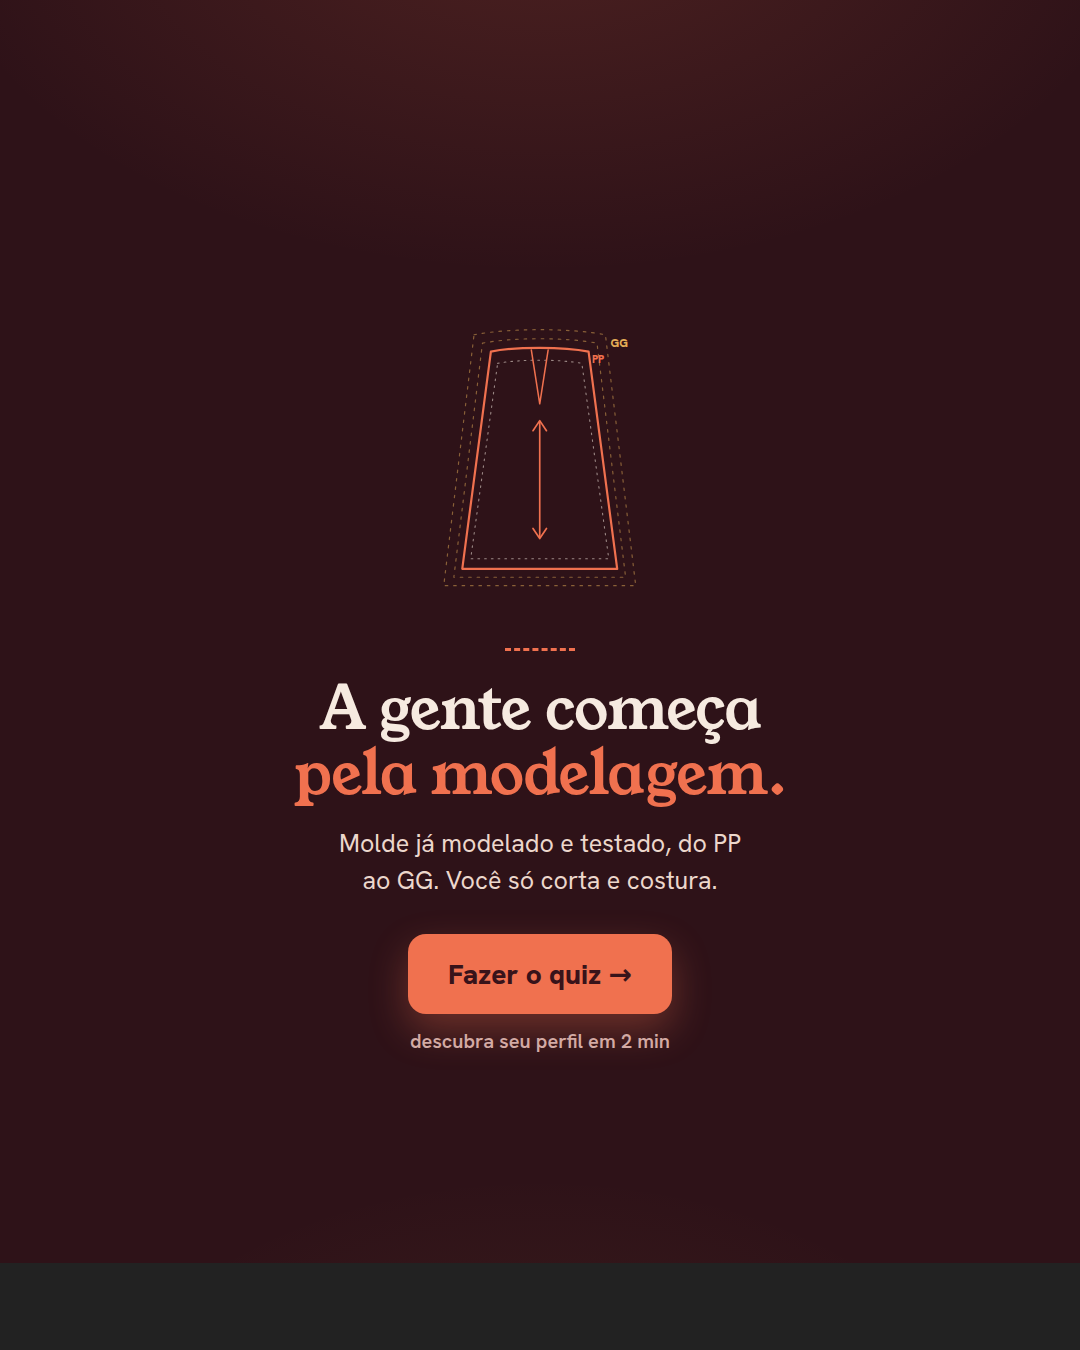
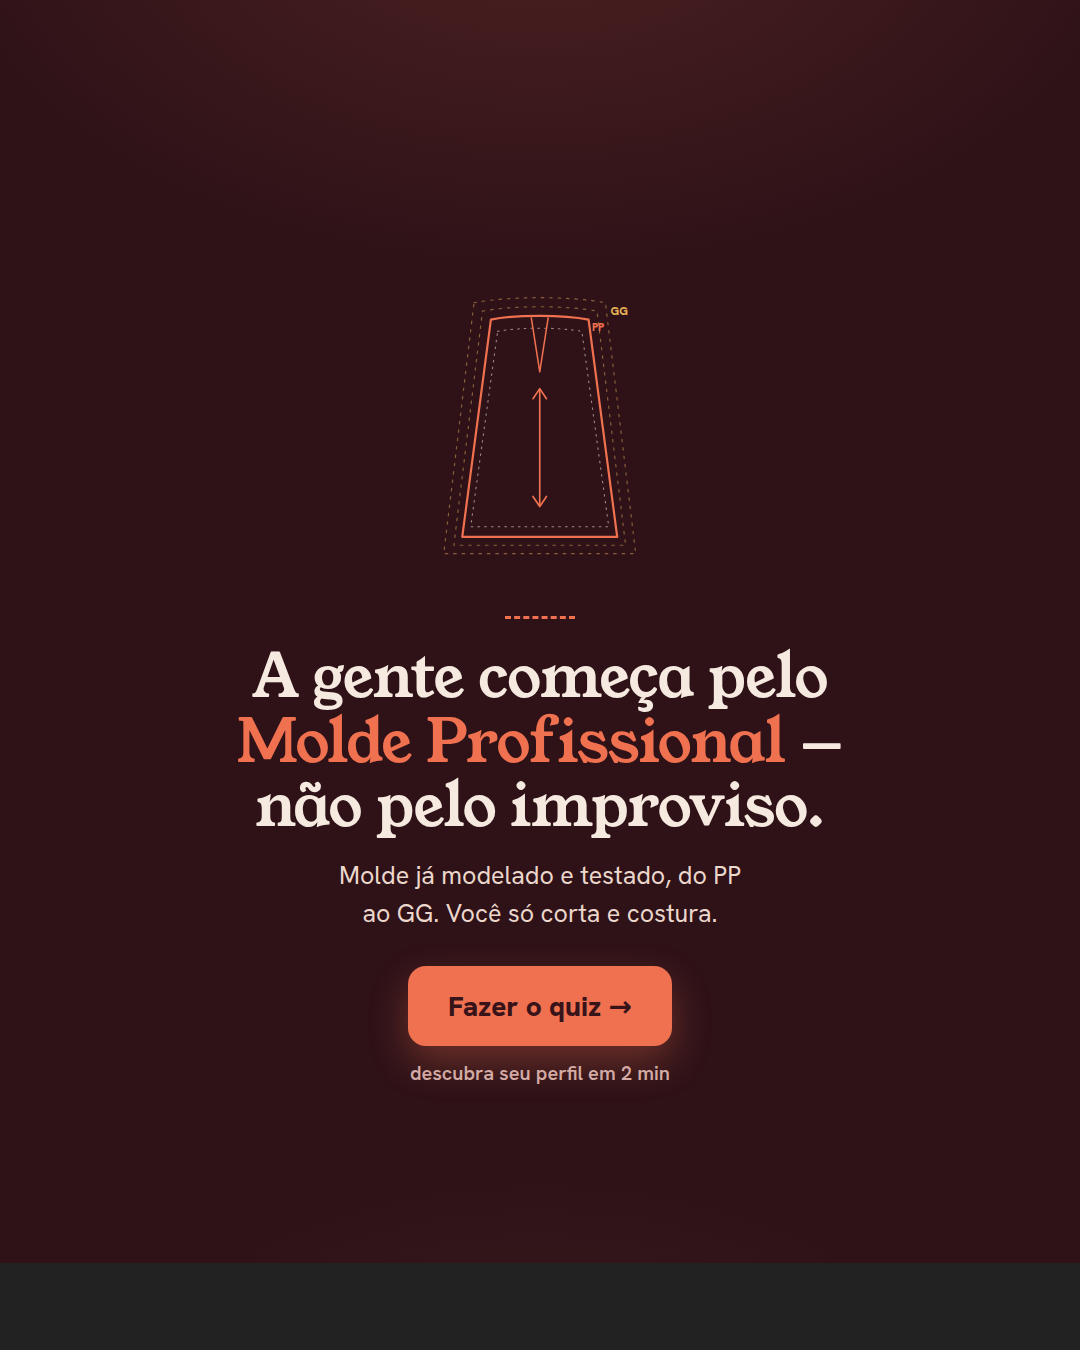
copy(criativos): novas headlines do molde e manequim
- molde (feed+stories): "A gente começa pelo Molde Profissional — não pelo improviso"
- manequim (feed+stories): "Molde com caimento profissional" (sub cita do PP ao GG)

Claude-Session: https://claude.ai/code/session_016H96bb8eAFfmjxwbFd5sg9

Changed region(s): [[0.2139, 0.4667, 0.7639, 0.8089], [0.4278, 0.2178, 0.5806, 0.4356]]

diff --git a/criativos/sem-foto/manequim-feed.html b/criativos/sem-foto/manequim-feed.html
@@ -21,5 +21,5 @@ h1 b{color:var(--coral);font-weight:400}
 <path d="M120 52 C138 52 148 66 154 82 C164 106 172 118 170 140 C168 160 152 170 148 186 C156 206 176 218 176 238 C176 252 150 258 120 258 C90 258 64 252 64 238 C64 218 84 206 92 186 C88 170 72 160 70 140 C68 118 76 106 86 82 C92 66 102 52 120 52 Z" stroke="#f0714f" stroke-width="2.6"/>
 <path d="M106 60 C112 70 128 70 134 60" stroke="#f0714f" stroke-width="2"/>
 <line x1="120" y1="74" x2="120" y2="254" stroke="#f6eae0" stroke-width="1.2" stroke-dasharray="2 7" opacity=".5"/>
-<ellipse cx="120" cy="184" rx="56" ry="13" stroke="#e3ad57" stroke-width="2.4" stroke-dasharray="6 5"/></svg></div><div class="seam"></div><h1>Caimento que cai <b>certo.</b> Do PP ao GG.</h1><p class="sub">Cada molde já vem com as correções do corpo feminino real. Sem ajuste no escuro.</p><span class="cta">Descobrir meu perfil →</span><div class="micro">leva 2 min · resultado na hora</div>
+<ellipse cx="120" cy="184" rx="56" ry="13" stroke="#e3ad57" stroke-width="2.4" stroke-dasharray="6 5"/></svg></div><div class="seam"></div><h1>Molde com <b>caimento profissional.</b></h1><p class="sub">Cada molde já vem com as correções do corpo feminino, do PP ao GG. Sem ajuste no escuro.</p><span class="cta">Descobrir meu perfil →</span><div class="micro">leva 2 min · resultado na hora</div>
 </div></body></html>

diff --git a/criativos/sem-foto/manequim-stories.html b/criativos/sem-foto/manequim-stories.html
@@ -21,5 +21,5 @@ h1 b{color:var(--coral);font-weight:400}
 <path d="M120 52 C138 52 148 66 154 82 C164 106 172 118 170 140 C168 160 152 170 148 186 C156 206 176 218 176 238 C176 252 150 258 120 258 C90 258 64 252 64 238 C64 218 84 206 92 186 C88 170 72 160 70 140 C68 118 76 106 86 82 C92 66 102 52 120 52 Z" stroke="#f0714f" stroke-width="2.6"/>
 <path d="M106 60 C112 70 128 70 134 60" stroke="#f0714f" stroke-width="2"/>
 <line x1="120" y1="74" x2="120" y2="254" stroke="#f6eae0" stroke-width="1.2" stroke-dasharray="2 7" opacity=".5"/>
-<ellipse cx="120" cy="184" rx="56" ry="13" stroke="#e3ad57" stroke-width="2.4" stroke-dasharray="6 5"/></svg></div><div class="seam"></div><h1>Caimento que cai <b>certo.</b> Do PP ao GG.</h1><p class="sub">Cada molde já vem com as correções do corpo feminino real. Sem ajuste no escuro.</p><span class="cta">Descobrir meu perfil →</span><div class="micro">leva 2 min · resultado na hora</div>
+<ellipse cx="120" cy="184" rx="56" ry="13" stroke="#e3ad57" stroke-width="2.4" stroke-dasharray="6 5"/></svg></div><div class="seam"></div><h1>Molde com <b>caimento profissional.</b></h1><p class="sub">Cada molde já vem com as correções do corpo feminino, do PP ao GG. Sem ajuste no escuro.</p><span class="cta">Descobrir meu perfil →</span><div class="micro">leva 2 min · resultado na hora</div>
 </div></body></html>

diff --git a/criativos/sem-foto/molde-feed.html b/criativos/sem-foto/molde-feed.html
@@ -21,5 +21,5 @@ h1 b{color:var(--coral);font-weight:400}
 <path d="M150 64 L160 128 L170 64" stroke="#f0714f" stroke-width="1.8"/>
 <g stroke="#f0714f" stroke-width="2"><line x1="160" y1="150" x2="160" y2="286"/><path d="M152 160 L160 148 L168 160"/><path d="M152 276 L160 288 L168 276"/></g>
 <text x="244" y="60" font-family="Hanken Grotesk,sans-serif" font-size="14" font-weight="800" fill="#e3ad57">GG</text>
-<text x="222" y="80" font-family="Hanken Grotesk,sans-serif" font-size="13" font-weight="800" fill="#f0714f">PP</text></svg></div><div class="seam"></div><h1>A gente começa <b>pela modelagem.</b></h1><p class="sub">Molde já modelado e testado, do PP ao GG. Você só corta e costura.</p><span class="cta">Fazer o quiz →</span><div class="micro">descubra seu perfil em 2 min</div>
+<text x="222" y="80" font-family="Hanken Grotesk,sans-serif" font-size="13" font-weight="800" fill="#f0714f">PP</text></svg></div><div class="seam"></div><h1>A gente começa pelo <b>Molde Profissional</b> — não pelo improviso.</h1><p class="sub">Molde já modelado e testado, do PP ao GG. Você só corta e costura.</p><span class="cta">Fazer o quiz →</span><div class="micro">descubra seu perfil em 2 min</div>
 </div></body></html>

diff --git a/criativos/sem-foto/molde-stories.html b/criativos/sem-foto/molde-stories.html
@@ -21,5 +21,5 @@ h1 b{color:var(--coral);font-weight:400}
 <path d="M150 64 L160 128 L170 64" stroke="#f0714f" stroke-width="1.8"/>
 <g stroke="#f0714f" stroke-width="2"><line x1="160" y1="150" x2="160" y2="286"/><path d="M152 160 L160 148 L168 160"/><path d="M152 276 L160 288 L168 276"/></g>
 <text x="244" y="60" font-family="Hanken Grotesk,sans-serif" font-size="14" font-weight="800" fill="#e3ad57">GG</text>
-<text x="222" y="80" font-family="Hanken Grotesk,sans-serif" font-size="13" font-weight="800" fill="#f0714f">PP</text></svg></div><div class="seam"></div><h1>A gente começa <b>pela modelagem.</b></h1><p class="sub">Molde já modelado e testado, do PP ao GG. Você só corta e costura.</p><span class="cta">Fazer o quiz →</span><div class="micro">descubra seu perfil em 2 min</div>
+<text x="222" y="80" font-family="Hanken Grotesk,sans-serif" font-size="13" font-weight="800" fill="#f0714f">PP</text></svg></div><div class="seam"></div><h1>A gente começa pelo <b>Molde Profissional</b> — não pelo improviso.</h1><p class="sub">Molde já modelado e testado, do PP ao GG. Você só corta e costura.</p><span class="cta">Fazer o quiz →</span><div class="micro">descubra seu perfil em 2 min</div>
 </div></body></html>
